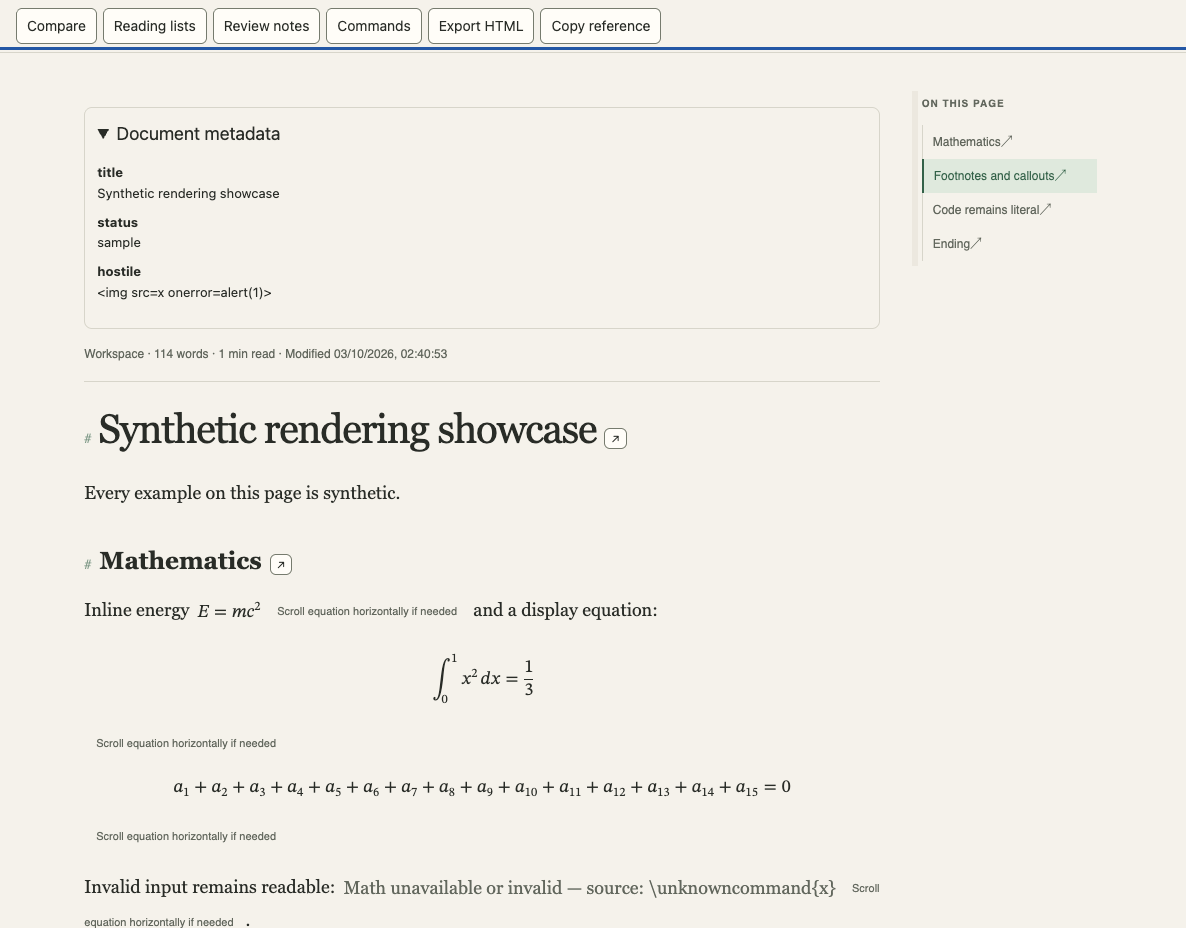
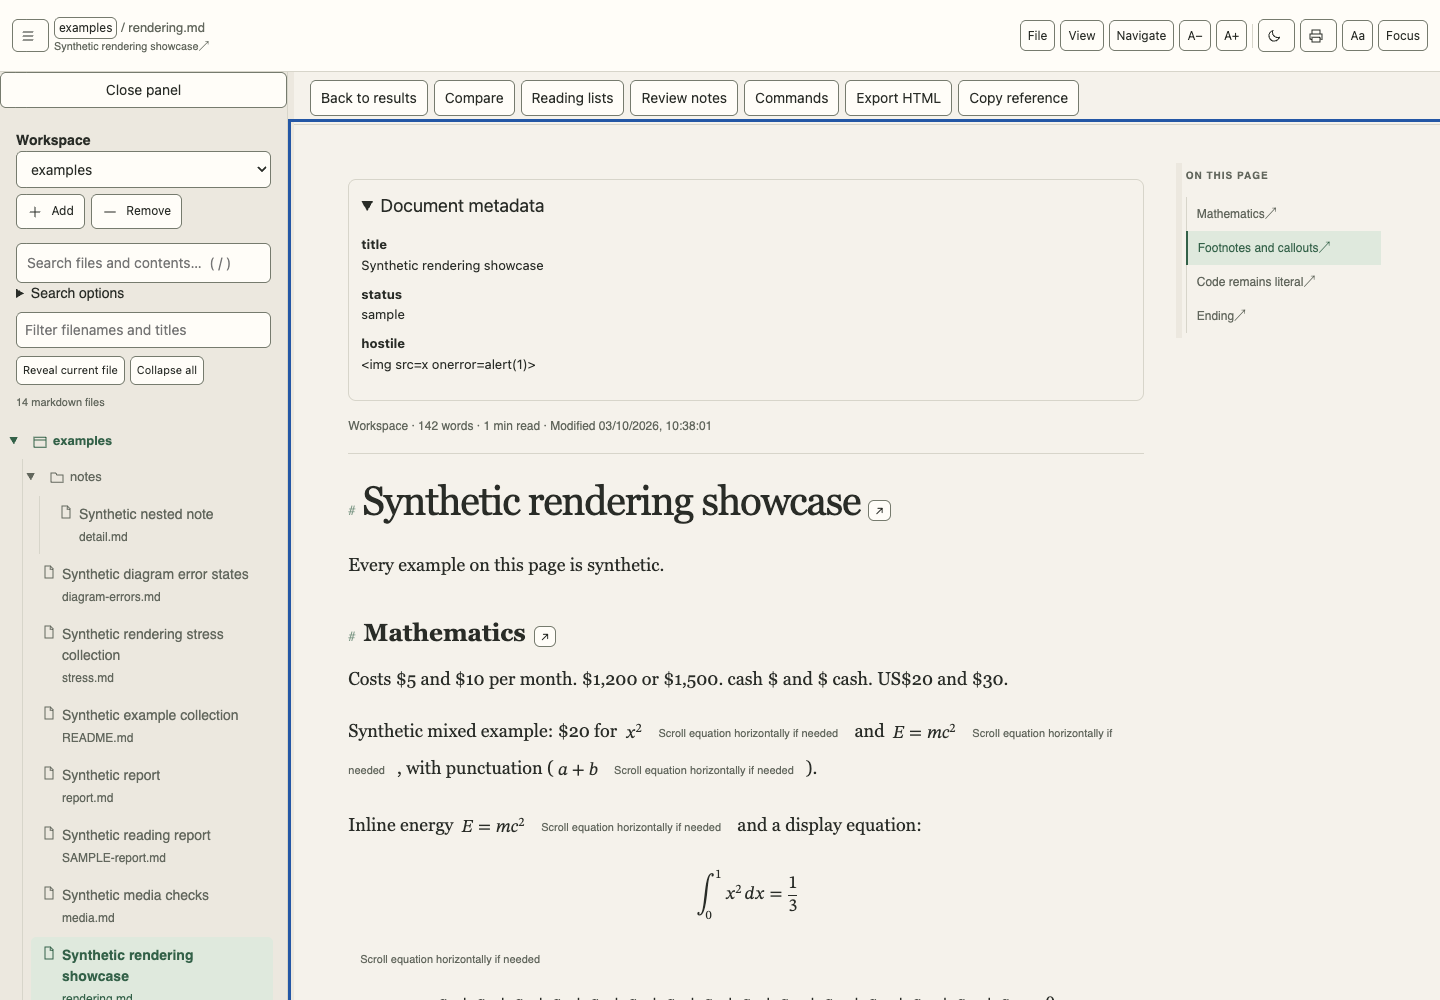
docs: explain settings migration and refresh reader screenshots

Changed region(s): [[0.0, 0.0, 1.0, 1.0], [0.2496, 0.7188, 0.7799, 0.7812], [0.4992, 0.9375, 0.7487, 0.9688]]

diff --git a/README.md b/README.md
@@ -22,6 +22,7 @@ Open `rendering.md` for equations, footnotes and callouts. Follow the Chain from
 ![Synthetic narrow reading](docs/images/reading-390.png)
 
 These browser-generated images contain only synthetic examples, including deliberately hostile text displayed inertly to demonstrate escaping.
+At narrow widths the existing sidebar drawer overlays part of the document; close it to read the full width.
 
 ## Find and follow
 
@@ -36,6 +37,7 @@ Chain recognizes same-folder `PREFIX-kind.md` families and simple front-matter `
 Tables/code scroll locally with hints and keyboard focus. Flowchart/sequence/ER diagrams have isolated output, zoom/pan, source and fullscreen. Local PNG/JPEG images are bounded; SVG/GIF/WebP remain unsupported. Appearance offers light/dark/auto, serif/sans, text size, reading measure and focus mode.
 
 Math uses `$inline$` or `$$display$$`, with lazy vendored KaTeX producing native MathML and no remote fonts. Limits: 200 expressions, 4,000 characters each, 100 expansions and size 20. Resource/definition commands are refused; invalid/unavailable math shows source. Browser math appearance varies. These are not hard CPU timeouts.
+Inline opening dollars require a non-space, non-digit next character; closing dollars require a non-space preceding character and no following digit. Thus `$5 and $10` stays prose, while `$x^2$` renders. Numeric-leading equations need display delimiters or a nonnumeric TeX prefix. Code spans and fences remain literal.
 
 Footnotes use `[^key]` and single-line `[^key]: text`, with repeated-reference backlinks. Bodies are escaped plain text, not nested Markdown. Blockquote callouts support `[!NOTE]`, `[!TIP]`, `[!WARNING]`, `[!IMPORTANT]`, `[!CAUTION]`. Native details/summary are styled. Leading front matter becomes a collapsible escaped key/value panel, limited to 16 KiB/100 lines; complex YAML is not interpreted.
 
@@ -53,7 +55,11 @@ Server/document failures show an explanation and Retry or another-workspace guid
 
 IPv4 loopback only. Browsing authority is resolved home plus explicit startup roots; outside-home roots must be supplied at every launch. Markdown paths reject traversal, symlinks, skipped directories and non-`.md` suffixes. Reads are capped at 2 MiB. Metadata reads at most 16 KiB and uses a locked bounded cache. Large roots still cost enumeration/stat work.
 
-Host and supplied Origin are checked on all routes. Writes require Origin exactly matching Host and same-origin Fetch Metadata when supplied. Source documents never change; reader-owned settings are writable outside displayed roots. Defaults live in ignored `.state/roots.json`; `READER_SETTINGS` can relocate them. A folder containing settings cannot be registered.
+Host and supplied Origin are checked on all routes. Writes require Origin exactly matching Host and same-origin Fetch Metadata when supplied. Source documents never change; reader-owned settings are writable outside displayed roots. Defaults are `roots.json` and `reviews-*.json` under `$XDG_CONFIG_HOME/passage` (absolute XDG paths only), otherwise `~/.config/passage`. `READER_SETTINGS` overrides the roots filename, with reviews alongside it, and bypasses migration. A folder enclosing the settings directory cannot be registered; choose a narrower folder or relocate settings outside it.
+
+On first default startup, legacy checkout `.state/roots.json` and `reviews-*.json` are copied without overwriting destination files or deleting originals. Symlink sources are skipped. A `.legacy-migrated` marker prevents repeated copying; failures abort startup and can be retried. Copies are private temporary files linked into place only when complete. Defaults are shared across checkouts: use an explicit override for separate instances. Settings and migration markers must remain untracked. See [settings decision](docs/decisions/0009-user-settings.md).
+
+Folder removal and corrupt-review reset use in-page confirmations: Cancel or Escape leaves state unchanged, Tab stays inside the confirmation and closing restores focus. Browse/add/remove/reset errors appear beside their action, rather than in native alert boxes. Migration I/O failures appear in the startup terminal, before the reader opens.
 
 Markdown and generated math pass through DOMPurify; diagram frames have no permissions. This is a trusted-local reader, not an Internet server, hostile-filesystem sandbox or offline firewall: remote images in the live reader may contact external servers. Export omits them. See [security](SECURITY.md), [threat model/tests](docs/ARCHITECTURE.md), [known limits](docs/known-rendering-issues.md), [third-party notices](THIRD-PARTY-NOTICES.md).
 

diff --git a/docs/ARCHITECTURE.md b/docs/ARCHITECTURE.md
@@ -47,6 +47,17 @@ Caption: implemented document request flow. Legend: solid calls and dashed respo
 
 ## Implemented: threat model
 
+Default startup resolves user-scoped settings and performs a non-overwriting legacy copy before constructing the workspace. Explicit overrides bypass copying. [ADR 0009](decisions/0009-user-settings.md) records location compatibility and migration limits; [settings](../server/settings.py) uses streamed temporary copies and exclusive hard links. Settings stay outside registered document roots. The browser's [dialog helper](../web/dialogs.js) uses the existing modal lifecycle and text-only action status, with no new rendering injection path.
+
+| Invariant / behavior | Regression evidence |
+| --- | --- |
+| Default outside checkout; refuse roots enclosing settings; preserve originals and existing targets; copy once | `test_default_location_and_one_time_non_destructive_migration`, `test_xdg_override_existing_destination_and_symlinks` in [settings tests](../tests/test_settings.py) |
+| Failed copy leaves no partial target or completion marker and can retry | `test_failed_migration_preserves_source_and_can_retry` |
+| Truncated search deterministic under changed enumeration, including entry cap | `test_search_truncated_results_stable_under_changed_enumeration` |
+| Non-corruption reset errors never move files | `test_reset_rethrows_non_corruption_from_load_without_moving` |
+| Currency/code stay literal; mixed inline and display equations work | [extension tests](../tests/extensions.test.js), [release browser tests](../tests/release-browser.mjs) |
+| No native alerts/confirms; cancellation, trapped Tab, restored focus and action errors | Extension source scan and [dialog browser tests](../tests/dialog-browser.mjs) |
+
 Assets: displayed Markdown contents, local directory metadata, reader settings and browser execution context. Actors: the local user, a remote site attempting cross-origin/rebinding requests, malicious Markdown, and local processes. Trust boundaries: HTTP request to handler, root-relative path to filesystem, Markdown to DOM, and reader-owned settings to source documents.
 
 | Invariant / mitigation | Regression evidence |

diff --git a/docs/feature-audit.md b/docs/feature-audit.md
@@ -1,5 +1,7 @@
 # Verified feature audit
 
+Settings/currency update: user-scoped defaults with non-destructive one-time legacy copying and explicit override; settings-enclosing roots remain refused. Folder and corrupt-review actions use in-page confirmation/status with keyboard cancellation and restored focus. Currency-safe delimiters preserve prose; numeric-leading inline equations require a nonnumeric prefix or display math. Unit and browser regressions cover these changes. Full-window synthetic screenshots show existing chrome; narrow navigation remains an overlapping drawer, not a redesign.
+
 Release-preparation update: sorted search covers up to 5,000 files with scanned/total notices; corrupt review state has explicit backup/reset. Native sanitized math, minimal footnotes/callouts/metadata/details, reference copy, inert HTML export, commands and recovery states are implemented. Diagram graphics in export use explicit source placeholders. No publication or tag is implied. Older audit paragraphs below describe their historical delivery scope.
 
 Search/review update: scoped search, phrase/case/whole-word matching, retained results, bounded Chain metadata, full-rendered heading-aligned Compare, ordered lists and anchored notes are implemented. Review data writes only to bounded reader-owned settings with conflict and rollback checks. Export is selected-note text, not whole documents. See [usage and limits](../README.md) and [threat-to-test mapping](ARCHITECTURE.md).

diff --git a/docs/known-rendering-issues.md b/docs/known-rendering-issues.md
@@ -2,6 +2,8 @@
 
 ## Current disposition
 
+Currency amounts now remain literal: inline math cannot start with whitespace or a digit, end with whitespace, or close before a digit. Display math and protected code are unchanged. MathML layout remains browser-dependent, and inline equations retain the existing scroll hints. Narrow screenshots show the existing sidebar overlay obscuring part of the document; this task does not redesign it.
+
 The original observations below are retained as the baseline. The current real-browser matrix checks every example at 1440, 1024 and 390px in light and dark.
 
 Ordinary diagram labels containing “image”, “click”, “href”, URL text and “Code style checks” pass both the input filter and renderer. The architecture fixture also verifies hostile label content remains inert and ER cardinality/attribute blocks render. Unterminated quotes/groups are refused. The filter is not a full grammar; unusual unquoted edge-label separators remain a documented limit. Root metadata now says Workspace; excess short-diagram space and stale-render cancellation remain in the backlog.

diff --git a/CHANGELOG.md b/CHANGELOG.md
@@ -1,5 +1,10 @@
 # Changelog
 
+- Keep currency amounts literal while rendering properly delimited inline and display math.
+- Move default reader settings outside the checkout, retaining legacy files in a non-overwriting one-time migration; preserve explicit settings overrides.
+- Replace native alert/confirmation boxes with keyboard-accessible in-page confirmations and action-local errors.
+- Pin truncated-search ordering and non-corruption reset refusal with adversarial tests; refresh full-window synthetic screenshots.
+
 ## Unreleased
 
 ## 0.1.0 — release preparation (not published)

diff --git a/docs/index.md b/docs/index.md
@@ -19,6 +19,7 @@ Passage is a local, read-only Markdown reader for technical document sets. This 
    - [0006 Review storage](decisions/0006-review-storage.md): where notes and reading lists live.
    - [0007 Heading-aligned compare](decisions/0007-heading-aligned-compare.md): how two documents line up.
    - [0008 Safe math and export](decisions/0008-safe-math-and-export.md): math rendering and HTML export.
+   - [0009 User-scoped settings](decisions/0009-user-settings.md): default location, legacy migration and confirmation behavior.
 
 ## What works, what does not
 
